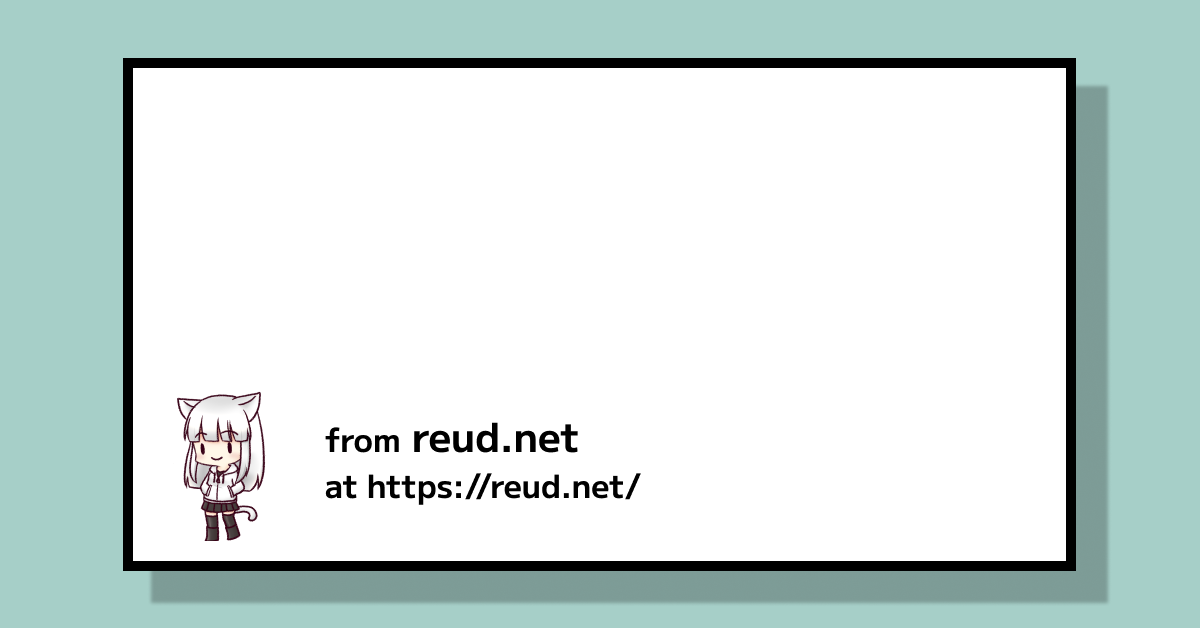
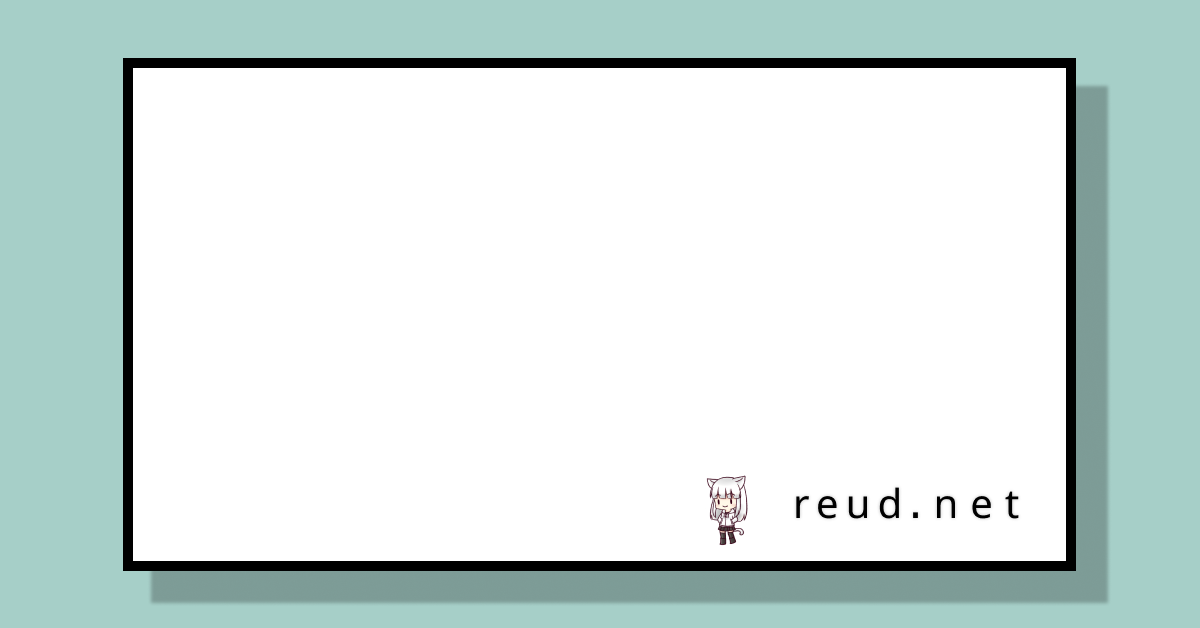
ogpカードのアップデートとか使用スクリプトとかの更新

diff --git a/.hugo-text-writer/template/article.md b/.hugo-text-writer/template/article.md
@@ -7,4 +7,4 @@
 ここに記事の文章を好きなように書く
 
 
-<!-- HugoTextWriterからsubmoduleを更新するスクリプト ->  (cd ../../../ && git add contents && git commit -m "update diary from submodule" && git push) -->
+<!-- HugoTextWriterからsubmoduleを更新するスクリプト -> ../../../content-update.sh -->
